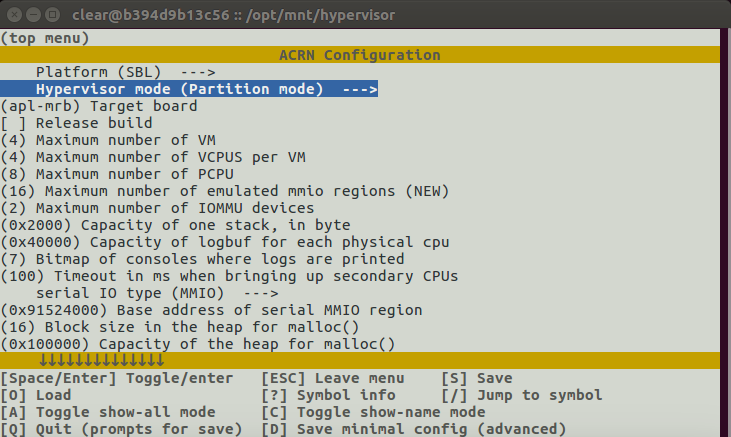
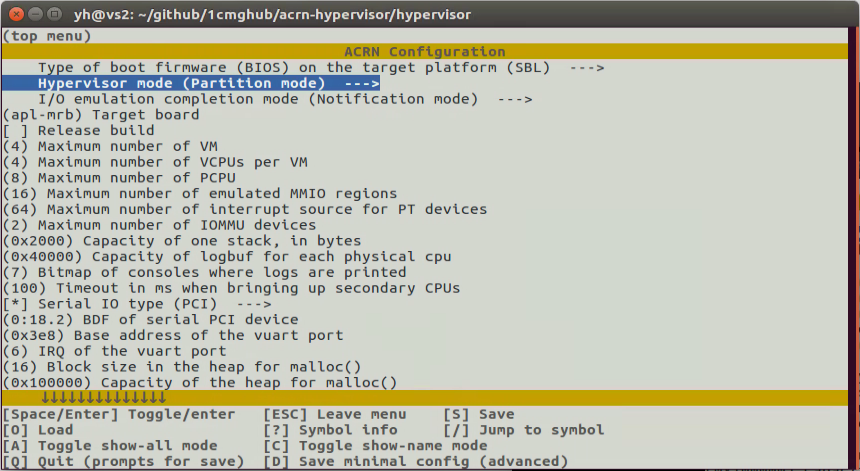
DOC: change PCI uart description from mmio to bdf
HV code changed to configure PCI uart mmio@ to bdf@,
so change its description to match it.

Tracked-On: #2031

diff --git a/doc/tutorials/using_partition_mode_on_up2.rst b/doc/tutorials/using_partition_mode_on_up2.rst
@@ -106,11 +106,11 @@ Enable partition mode in ACRN hypervisor
    .. code-block:: none
      :emphasize-lines: 1
 
-     $ dmesg | grep ttyS
-     [   10.552369] dw-apb-uart.8: ttyS4 at MMIO 0x91524000 (irq = 4, base_baud = 115200) is a 16550A
-     [   10.552568] serial serial0: tty port ttyS4 registered
-     [   10.572344] dw-apb-uart.9: ttyS5 at MMIO 0x91522000 (irq = 5, base_baud = 115200) is a 16550A
-     [   10.572545] serial serial1: tty port ttyS5 registered
+     $ sudo lspci | grep UART
+     00:18.0 . Series HSUART Controller #1 (rev 0b)
+     00:18.1 . Series HSUART Controller #2 (rev 0b)
+
+     The second with ``00:18.1`` is the one on the 40-pin expansion connector.
 
    The following command prints detailed information about all PCI buses
    and devices in the system. Look up the PCI BAR addresses of the SATA
@@ -153,7 +153,7 @@ Enable partition mode in ACRN hypervisor
      $ make menuconfig
 
    Set the ``Hypervisor mode`` option to ``Partition mode``, and depending
-   on the serial port you are using, enter its MMIO address to the configuration
+   on the serial port you are using, enter its BDF to the configuration
    menu as shown in this screenshot. Finally, save the configuration.
 
    .. figure:: images/menuconfig-partition-mode.png
@@ -347,8 +347,8 @@ Switch between privileged VMs
 *****************************
 
 Connect the serial port on the UP2 board to the development workstation.
-If you set the MMIO address of the serial port right while building the
-ACRN hypervisor, you should see the output from the ACRN serial console as below.
+If you set the BDF of the serial port right while building the ACRN hypervisor,
+you should see the output from the ACRN serial console as below.
 You could then log in to the privileged VMs by ``sos_console`` command,
 and press :kbd:`CTRL+Space` keys to return to the ACRN serial console.
 

diff --git a/doc/getting-started/up2.rst b/doc/getting-started/up2.rst
@@ -75,21 +75,21 @@ You will need to keep these in mind in a few places:
   .. code-block:: none
 
      # efibootmgr -c -l "\EFI\acrn\acrn.efi" -d /dev/mmcblk0 -p 1 -L "ACRN Hypervisor" \
-         -u "bootloader=\EFI\org.clearlinux\bootloaderx64.efi uart=mmio@0x9141e000"
+         -u "bootloader=\EFI\org.clearlinux\bootloaderx64.efi uart=bdf@0:18.1"
 
 UP2 serial port setting
 =======================
 
-The serial port in the 40-pin HAT connector is located at ``MMIO 0x0x9141e000``.
-You can check this from the ``dmesg`` output from the initial Clearlinux installation.
+The serial port in the 40-pin HAT connector is located at ``serial PCI BDF 0:18.1``.
+You can check this from the ``lspci`` output from the initial Clearlinux installation.
 
 .. code-block:: none
 
-   # dmesg | grep dw-apb-uart
-   [2.150689] dw-apb-uart.8: ttyS1 at MMIO 0x91420000 (irq = 4, base_baud = 115200) is a 16550A
-   [2.152072] dw-apb-uart.9: ttyS2 at MMIO 0x9141e000 (irq = 5, base_baud = 115200) is a 16550A
+   # lspci | grep UART
+   00:18.0 . Series HSUART Controller #1 (rev 0b)
+   00:18.1 . Series HSUART Controller #2 (rev 0b)
 
-The second entry associated with ``dw-apb-uart.9`` is the one on the 40-pin HAT connector.
+The second entry associated with ``00:18.1`` is the one on the 40-pin HAT connector.
 
 UP2 block device
 ================

diff --git a/doc/getting-started/apl-nuc.rst b/doc/getting-started/apl-nuc.rst
@@ -177,7 +177,8 @@ partition. Follow these steps:
       whether it should be disabled. There are three forms for this parameter:
 
       #. ``uart=disabled``: this disables the serial port completely
-      #. ``uart=mmio@<MMIO address>``: this sets the serial port MMIO address
+      #. ``uart=bdf@<BDF value>``:  this sets the PCI serial port based on its BDF.
+         For example, use ``bdf@0:18.2`` for a BDF of 0:18.2 ttyS2.
       #. ``uart=port@<port address>``: this sets the serial port address
 
    Here is a more complete example of how to configure the EFI firmware to load the ACRN
